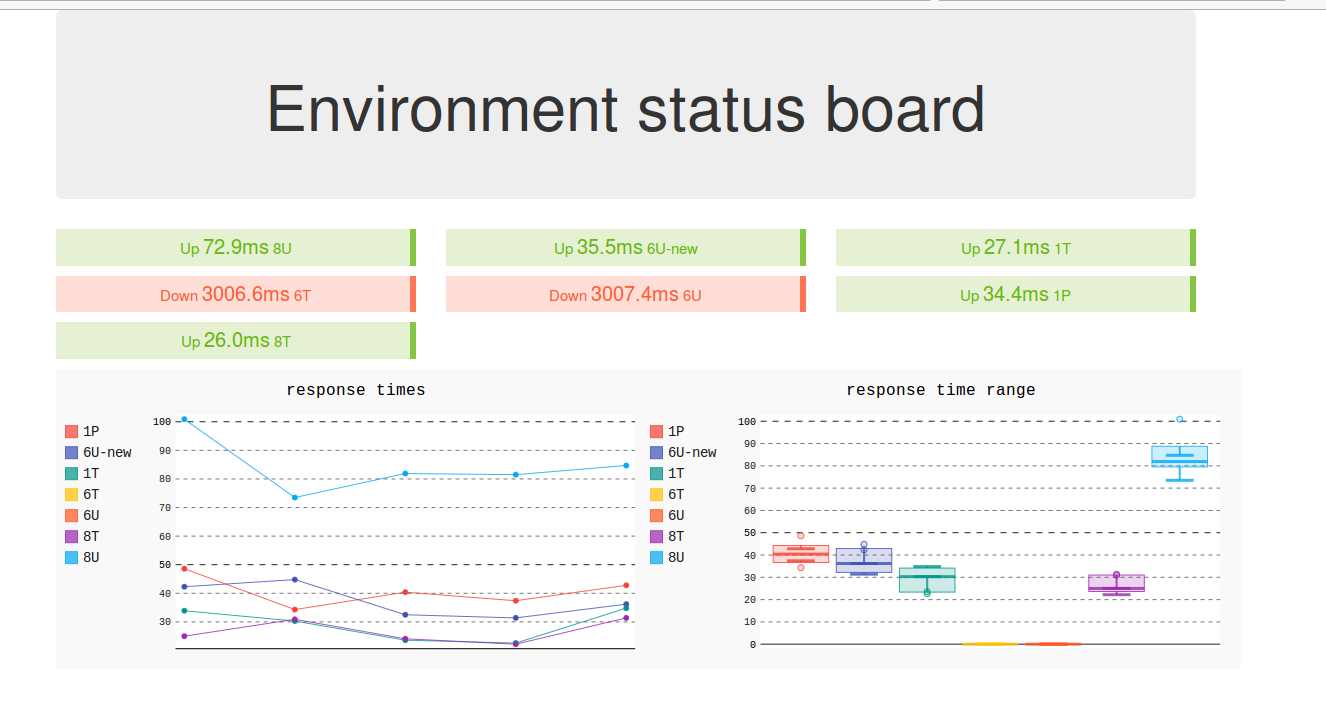
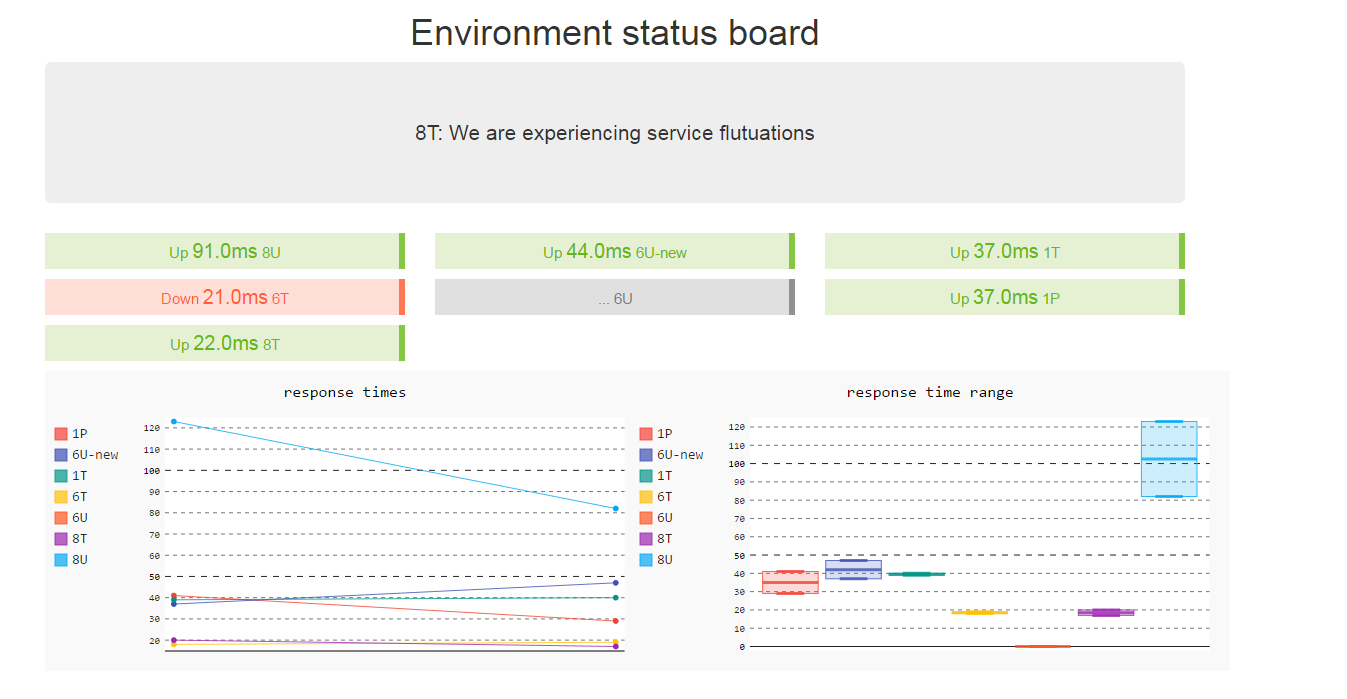
adding srevice status

diff --git a/templates/index.html b/templates/index.html
@@ -62,10 +62,22 @@
     }
     </style>
 
+
     <div class="container ">
-      <div class="jumbotron">
+      <div>
         <h1 style="text-align:center;">{{ title }}</h1>
       </div>
+
+    <div class="jumbotron">
+    <div class="row-fluid">
+    {% for k,v in service_messages.iteritems() %}
+      {% if v %}
+       <div class="span12 text-center">{{ k }}: {{ v }}</div>
+      {% endif %}
+    {% endfor %}
+    </div>
+    </div>
+
       <div style="width:100%;" class="text-center" >
         <div class="row">
           {% for task in tasks %}
@@ -92,7 +104,7 @@
 
     <footer class="footer">
       <div class="container">
-        <p class="text-muted text-center">Please contact <a href="mailto:YOURNAME">me</a> for support</p>
+        <p class="text-muted text-center">Please contact <a href="mailto:YOUREMAILADDRESS">me</a> for support</p>
       </div>
     </footer>
     <script src="http://code.jquery.com/jquery-1.10.2.min.js"></script>

diff --git a/run.py b/run.py
@@ -1,6 +1,7 @@
 import json
 import subprocess
 from time import time
+
 import pygal
 import requests
 from flask import Flask
@@ -9,19 +10,27 @@ from flask import render_template
 with open('config.json') as f:
     config = json.loads(f.read())
 
+
 class MyServer(Flask):
     def __init__(self, *args, **kwargs):
-        super(MyServer,self).__init__(*args, **kwargs)
+        super(MyServer, self).__init__(*args, **kwargs)
         self.stored_data = {}
+        self.service_messages = {}
 
         for task in config['tasks']:
-            self.stored_data[task["id"]]=[]
+            self.service_messages[task["id"]] = []
+
+        for task in config['tasks']:
+            self.stored_data[task["id"]] = []
+
 
 app = MyServer(__name__)
 
+
 def shell_handler(command, **kwargs):
     return_code = subprocess.call(command, shell=True)
-    return json.dumps(return_code == 0),0
+    return json.dumps(return_code == 0), 0
+
 
 def http_handler(address, **kwargs):
     s = time()
@@ -35,29 +44,33 @@ def http_handler(address, **kwargs):
 
 
 get_handler = {
-        'http': http_handler,
-        'shell': shell_handler,
-        }
+    'http': http_handler,
+    'shell': shell_handler,
+}
+
 
 @app.route('/')
-def index():
+@app.route('/<environment>/<sm>')
+def index(environment=None, sm=None):
+    if environment:
+        app.service_messages[environment] = sm
 
     title = "response times"
     chart = pygal.Line(stroke=True,
-            width=600,height=300,explicit_size=True,title=title)
+                       width=600, height=300, explicit_size=True, title=title)
 
     for key, value in app.stored_data.iteritems():
-        chart.add(key,[float(i) for i in value])
+        chart.add(key, [float(i) for i in value])
 
-
-    box_chart = pygal.Box(box_mode="pstdev",width=600,height=300,explicit_size=True)
+    box_chart = pygal.Box(box_mode="pstdev", width=600, height=300, explicit_size=True)
     box_chart.title = 'response time range'
 
     for key, value in app.stored_data.iteritems():
-        box_chart.add(key,[float(i) for i in value])
+        box_chart.add(key, [float(i) for i in value])
 
     return render_template('index.html', tasks=config['tasks'],
-            title=config['title'],bar_chart=chart,box_chart=box_chart)
+                           title=config['title'], bar_chart=chart, box_chart=box_chart,
+                           service_messages=app.service_messages)
 
 
 @app.route('/<task_id>')
@@ -67,15 +80,16 @@ def status(task_id):
     except StopIteration:
         return 'This task does not exist', 404
 
-    print("Next task to process is %s of type %s" % (task['id'],task['type']))
+    print("Next task to process is %s of type %s" % (task['id'], task['type']))
 
-    j,t = get_handler[task['type']](**task)
+    j, t = get_handler[task['type']](**task)
 
     if float(t) < float(3000):
         app.stored_data[task['id']].append(t)
     else:
-        print("Omitting %s response time too high for graphing %s" % (task['id'],t))
+        print("Omitting %s response time too high for graphing %s" % (task['id'], t))
     return json.dumps({"status": j, "time": "%sms" % str(t)})
 
+
 if __name__ == "__main__":
-    app.run(debug=False, host='0.0.0.0', threaded=True)
+    app.run(debug=True, host='0.0.0.0', threaded=True)
